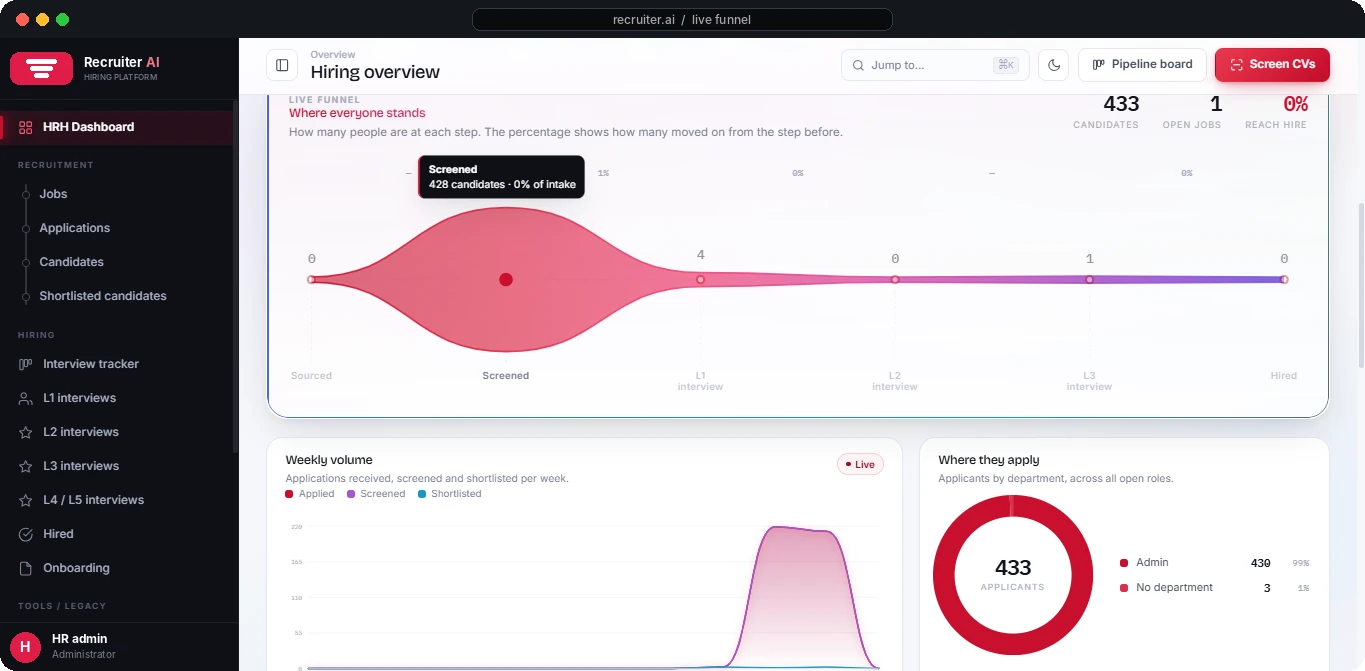
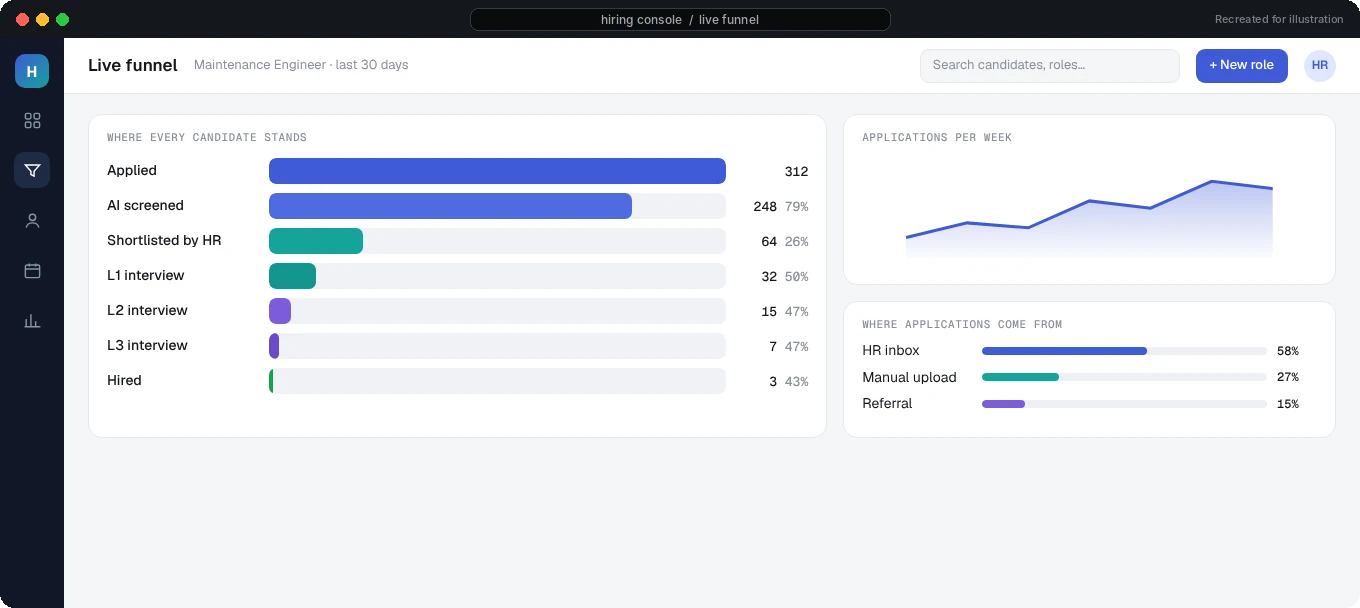
Recruiter section: recreated screens instead of employer screenshots
- Four screens rebuilt in an original UI design with made-up data
  (overview, live funnel, AI scorecard, interview tracker), labelled as recreated
- Card composites, alt text, notes and captions updated

Claude-Session: https://claude.ai/code/session_01C4nCB4uHRnZTJ7JRHfyLKu

diff --git a/index.html b/index.html
@@ -77,13 +77,13 @@
         <li><button class="rs-tab" type="button" data-i="3"><span class="meta">04</span><b>Interview tracker</b><span class="d">L1 to L3 rounds, scheduling and forms.</span></button></li>
       </ol>
       <p class="rs-hint meta" aria-hidden="true"><i></i>Scroll to move through the screens</p>
-      <p class="rs-note meta">From the platform I'm building in my current role. Branding and candidate details removed.</p>
+      <p class="rs-note meta">Recreated screens with made-up data. The real platform I'm building in my current role is private.</p>
     </div>
     <div class="rs-stage"><div class="rs-scene">
-      <figure class="rs-win" data-title="Hiring overview" data-desc="Jobs, applications and every interview round."><div class="rs-shot"><img src="assets/media/hr-dashboard.webp" alt="Recruiting platform overview: published jobs, applications, shortlisted candidates and interview counts per round" width="1362" height="676" loading="lazy" decoding="async"></div><span class="rs-open" aria-hidden="true">Enlarge</span><span class="rs-chip">One screen for jobs, applications and every round</span><figcaption class="rs-cap"><b>Hiring overview</b>Jobs, applications and every interview round.</figcaption></figure>
-      <figure class="rs-win" data-title="Live funnel" data-desc="Where each candidate stands, step by step."><div class="rs-shot"><img src="assets/media/hr-funnel.webp" alt="Live hiring funnel from sourced to hired, with weekly volume and applicants by department" width="1365" height="671" loading="lazy" decoding="async"></div><span class="rs-open" aria-hidden="true">Enlarge</span><span class="rs-chip">Live funnel: sourced, screened, L1, L2, L3, hired</span><figcaption class="rs-cap"><b>Live funnel</b>Where each candidate stands, step by step.</figcaption></figure>
-      <figure class="rs-win" data-title="AI scorecard" data-desc="Each CV scored against the role, with the working shown."><div class="rs-shot"><img src="assets/media/hr-scorecard.webp" alt="AI scorecard: skill and experience match, total experience, sector and job-switch history for a candidate (two cards hidden)" width="1366" height="628" loading="lazy" decoding="async"></div><span class="rs-open" aria-hidden="true">Enlarge</span><span class="rs-chip">AI scores the CV against the role. A person decides.</span><figcaption class="rs-cap"><b>AI scorecard</b>Each CV scored against the role, with the working shown.</figcaption></figure>
-      <figure class="rs-win" data-title="Interview tracker" data-desc="L1 to L3 rounds, scheduling and forms."><div class="rs-shot"><img src="assets/media/hr-tracker.webp" alt="Interview tracker listing candidates (names blurred) with job, level, form status and panel view" width="1362" height="621" loading="lazy" decoding="async"></div><span class="rs-open" aria-hidden="true">Enlarge</span><span class="rs-chip">Rounds, forms and panel view per candidate</span><figcaption class="rs-cap"><b>Interview tracker</b>L1 to L3 rounds, scheduling and forms.</figcaption></figure>
+      <figure class="rs-win" data-title="Hiring overview" data-desc="Jobs, applications and every interview round."><div class="rs-shot"><img src="assets/media/hr-dashboard.webp" alt="Recreated hiring overview: open roles, new applications, shortlisted candidates and upcoming interviews (made-up data)" width="1360" height="608" loading="lazy" decoding="async"></div><span class="rs-open" aria-hidden="true">Enlarge</span><span class="rs-chip">One screen for jobs, applications and every round</span><figcaption class="rs-cap"><b>Hiring overview</b>Jobs, applications and every interview round.</figcaption></figure>
+      <figure class="rs-win" data-title="Live funnel" data-desc="Where each candidate stands, step by step."><div class="rs-shot"><img src="assets/media/hr-funnel.webp" alt="Recreated live funnel from applied to hired, with weekly applications and sources (made-up data)" width="1360" height="608" loading="lazy" decoding="async"></div><span class="rs-open" aria-hidden="true">Enlarge</span><span class="rs-chip">Live funnel: sourced, screened, L1, L2, L3, hired</span><figcaption class="rs-cap"><b>Live funnel</b>Where each candidate stands, step by step.</figcaption></figure>
+      <figure class="rs-win" data-title="AI scorecard" data-desc="Each CV scored against the role, with the working shown."><div class="rs-shot"><img src="assets/media/hr-scorecard.webp" alt="Recreated AI scorecard: overall score and four criteria with reasons, and the HR decision buttons (made-up data)" width="1360" height="608" loading="lazy" decoding="async"></div><span class="rs-open" aria-hidden="true">Enlarge</span><span class="rs-chip">AI scores the CV against the role. A person decides.</span><figcaption class="rs-cap"><b>AI scorecard</b>Each CV scored against the role, with the working shown.</figcaption></figure>
+      <figure class="rs-win" data-title="Interview tracker" data-desc="L1 to L3 rounds, scheduling and forms."><div class="rs-shot"><img src="assets/media/hr-tracker.webp" alt="Recreated interview tracker: candidates, round, status and interviewer forms (made-up data)" width="1360" height="608" loading="lazy" decoding="async"></div><span class="rs-open" aria-hidden="true">Enlarge</span><span class="rs-chip">Rounds, forms and panel view per candidate</span><figcaption class="rs-cap"><b>Interview tracker</b>L1 to L3 rounds, scheduling and forms.</figcaption></figure>
     </div></div>
   </div></div>
 </section>

diff --git a/tools/recruiter_section.html b/tools/recruiter_section.html
@@ -11,13 +11,13 @@
         <li><button class="rs-tab" type="button" data-i="3"><span class="meta">04</span><b>Interview tracker</b><span class="d">L1 to L3 rounds, scheduling and forms.</span></button></li>
       </ol>
       <p class="rs-hint meta" aria-hidden="true"><i></i>Scroll to move through the screens</p>
-      <p class="rs-note meta">From the platform I'm building in my current role. Branding and candidate details removed.</p>
+      <p class="rs-note meta">Recreated screens with made-up data. The real platform I'm building in my current role is private.</p>
     </div>
     <div class="rs-stage"><div class="rs-scene">
-      <figure class="rs-win" data-title="Hiring overview" data-desc="Jobs, applications and every interview round."><div class="rs-shot"><img src="assets/media/hr-dashboard.webp" alt="Recruiting platform overview: published jobs, applications, shortlisted candidates and interview counts per round" width="1362" height="676" loading="lazy" decoding="async"></div><span class="rs-open" aria-hidden="true">Enlarge</span><span class="rs-chip">One screen for jobs, applications and every round</span><figcaption class="rs-cap"><b>Hiring overview</b>Jobs, applications and every interview round.</figcaption></figure>
-      <figure class="rs-win" data-title="Live funnel" data-desc="Where each candidate stands, step by step."><div class="rs-shot"><img src="assets/media/hr-funnel.webp" alt="Live hiring funnel from sourced to hired, with weekly volume and applicants by department" width="1365" height="671" loading="lazy" decoding="async"></div><span class="rs-open" aria-hidden="true">Enlarge</span><span class="rs-chip">Live funnel: sourced, screened, L1, L2, L3, hired</span><figcaption class="rs-cap"><b>Live funnel</b>Where each candidate stands, step by step.</figcaption></figure>
-      <figure class="rs-win" data-title="AI scorecard" data-desc="Each CV scored against the role, with the working shown."><div class="rs-shot"><img src="assets/media/hr-scorecard.webp" alt="AI scorecard: skill and experience match, total experience, sector and job-switch history for a candidate (two cards hidden)" width="1366" height="628" loading="lazy" decoding="async"></div><span class="rs-open" aria-hidden="true">Enlarge</span><span class="rs-chip">AI scores the CV against the role. A person decides.</span><figcaption class="rs-cap"><b>AI scorecard</b>Each CV scored against the role, with the working shown.</figcaption></figure>
-      <figure class="rs-win" data-title="Interview tracker" data-desc="L1 to L3 rounds, scheduling and forms."><div class="rs-shot"><img src="assets/media/hr-tracker.webp" alt="Interview tracker listing candidates (names blurred) with job, level, form status and panel view" width="1362" height="621" loading="lazy" decoding="async"></div><span class="rs-open" aria-hidden="true">Enlarge</span><span class="rs-chip">Rounds, forms and panel view per candidate</span><figcaption class="rs-cap"><b>Interview tracker</b>L1 to L3 rounds, scheduling and forms.</figcaption></figure>
+      <figure class="rs-win" data-title="Hiring overview" data-desc="Jobs, applications and every interview round."><div class="rs-shot"><img src="assets/media/hr-dashboard.webp" alt="Recreated hiring overview: open roles, new applications, shortlisted candidates and upcoming interviews (made-up data)" width="1360" height="608" loading="lazy" decoding="async"></div><span class="rs-open" aria-hidden="true">Enlarge</span><span class="rs-chip">One screen for jobs, applications and every round</span><figcaption class="rs-cap"><b>Hiring overview</b>Jobs, applications and every interview round.</figcaption></figure>
+      <figure class="rs-win" data-title="Live funnel" data-desc="Where each candidate stands, step by step."><div class="rs-shot"><img src="assets/media/hr-funnel.webp" alt="Recreated live funnel from applied to hired, with weekly applications and sources (made-up data)" width="1360" height="608" loading="lazy" decoding="async"></div><span class="rs-open" aria-hidden="true">Enlarge</span><span class="rs-chip">Live funnel: sourced, screened, L1, L2, L3, hired</span><figcaption class="rs-cap"><b>Live funnel</b>Where each candidate stands, step by step.</figcaption></figure>
+      <figure class="rs-win" data-title="AI scorecard" data-desc="Each CV scored against the role, with the working shown."><div class="rs-shot"><img src="assets/media/hr-scorecard.webp" alt="Recreated AI scorecard: overall score and four criteria with reasons, and the HR decision buttons (made-up data)" width="1360" height="608" loading="lazy" decoding="async"></div><span class="rs-open" aria-hidden="true">Enlarge</span><span class="rs-chip">AI scores the CV against the role. A person decides.</span><figcaption class="rs-cap"><b>AI scorecard</b>Each CV scored against the role, with the working shown.</figcaption></figure>
+      <figure class="rs-win" data-title="Interview tracker" data-desc="L1 to L3 rounds, scheduling and forms."><div class="rs-shot"><img src="assets/media/hr-tracker.webp" alt="Recreated interview tracker: candidates, round, status and interviewer forms (made-up data)" width="1360" height="608" loading="lazy" decoding="async"></div><span class="rs-open" aria-hidden="true">Enlarge</span><span class="rs-chip">Rounds, forms and panel view per candidate</span><figcaption class="rs-cap"><b>Interview tracker</b>L1 to L3 rounds, scheduling and forms.</figcaption></figure>
     </div></div>
   </div></div>
 </section>

diff --git a/assets/js/showcase3d.js b/assets/js/showcase3d.js
@@ -1,4 +1,4 @@
-// "AI recruiting platform" scroll story (home page). Four real screens (company branding + candidate data removed)
+// "AI recruiting platform" scroll story (home page). Four recreated screens (own design, made-up data; the real system is private)
 // sit in a 3D stack: scrolling through the pinned section flies them past one at a time, the cursor tilts the whole scene,
 // and the text on the left follows. Narrow screens, reduced motion and no-JS get a plain stacked layout (same content).
 // Clicking a screen opens it full size.

diff --git a/docs/VERIFY.md b/docs/VERIFY.md
@@ -16,7 +16,7 @@
 - "2 systems in daily production use" and "about 40% less manual translation work" (subtitle SaaS, n8n automations): no public evidence; they come from your earlier site copy.
 - About: "Currently also working on bottle bubble detection and mushroom defect classification" and "rolled out with the operations team".
 - Smart-farming accuracies (99.13%, 98.75%, 99.3%, R² 0.987): the IEEE page could not be opened from here; check against the paper.
-- HR platform screens and the "built for a manufacturer" wording: confirm your employer is fine with showing them (name, logo, people, age and BMI are removed).
+- HR platform: the real screenshots were replaced by recreated screens (own design, made-up data). Only the "built for a manufacturer" wording remains; confirm you are fine with it.
 - Invoice to Excel: the Streamlit link could not be opened from here (blocked network); open it once to confirm it works.
 - CV scoring section: the four criteria and the plain-average overall are inferred from your screenshots.
 

diff --git a/docs/ASSETS.md b/docs/ASSETS.md
@@ -11,7 +11,7 @@
 | `potato-*.webp`, `orange-detect.webp` | Asad's model outputs | Own work |
 | `tomato-grading.webm` | WebM copy of the existing tomato video | as above |
 | `robot-slam.webp` | Drawn from the real map file `turtlebot3-fleet-nav2/maps/warehouse_map.pgm` | Own work |
-| `hr-*.webp` | Screenshots of the recruiter platform supplied by Asad; company name, logo, people's names, BMI and age cards removed | Asad's work in his current role; publish only with employer consent |
+| `hr-*.webp` | Recreated recruiter screens: own UI design rendered from HTML, made-up data; not screenshots of the employer's system | Own work |
 | SVG illustrations (`assets/js/illus.js`, `explain.js`) | Original, captioned "(Illustration)" on the site | Own work |
 
 No stock photos were downloaded: the build environment cannot reach stock sites, and generic stock images would not show real work.
